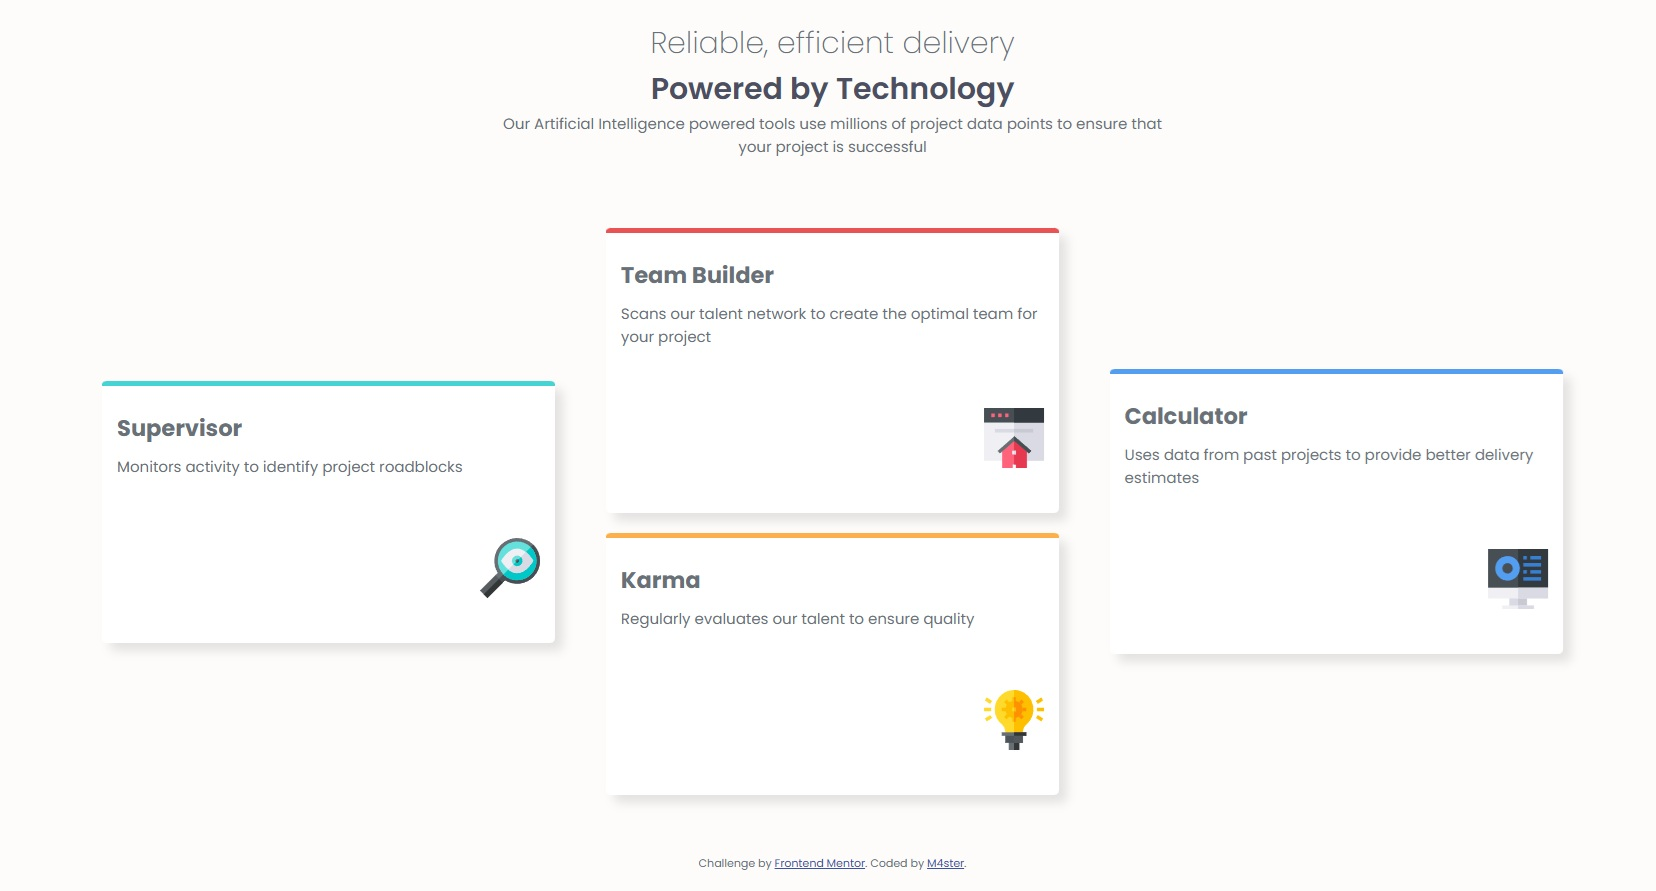
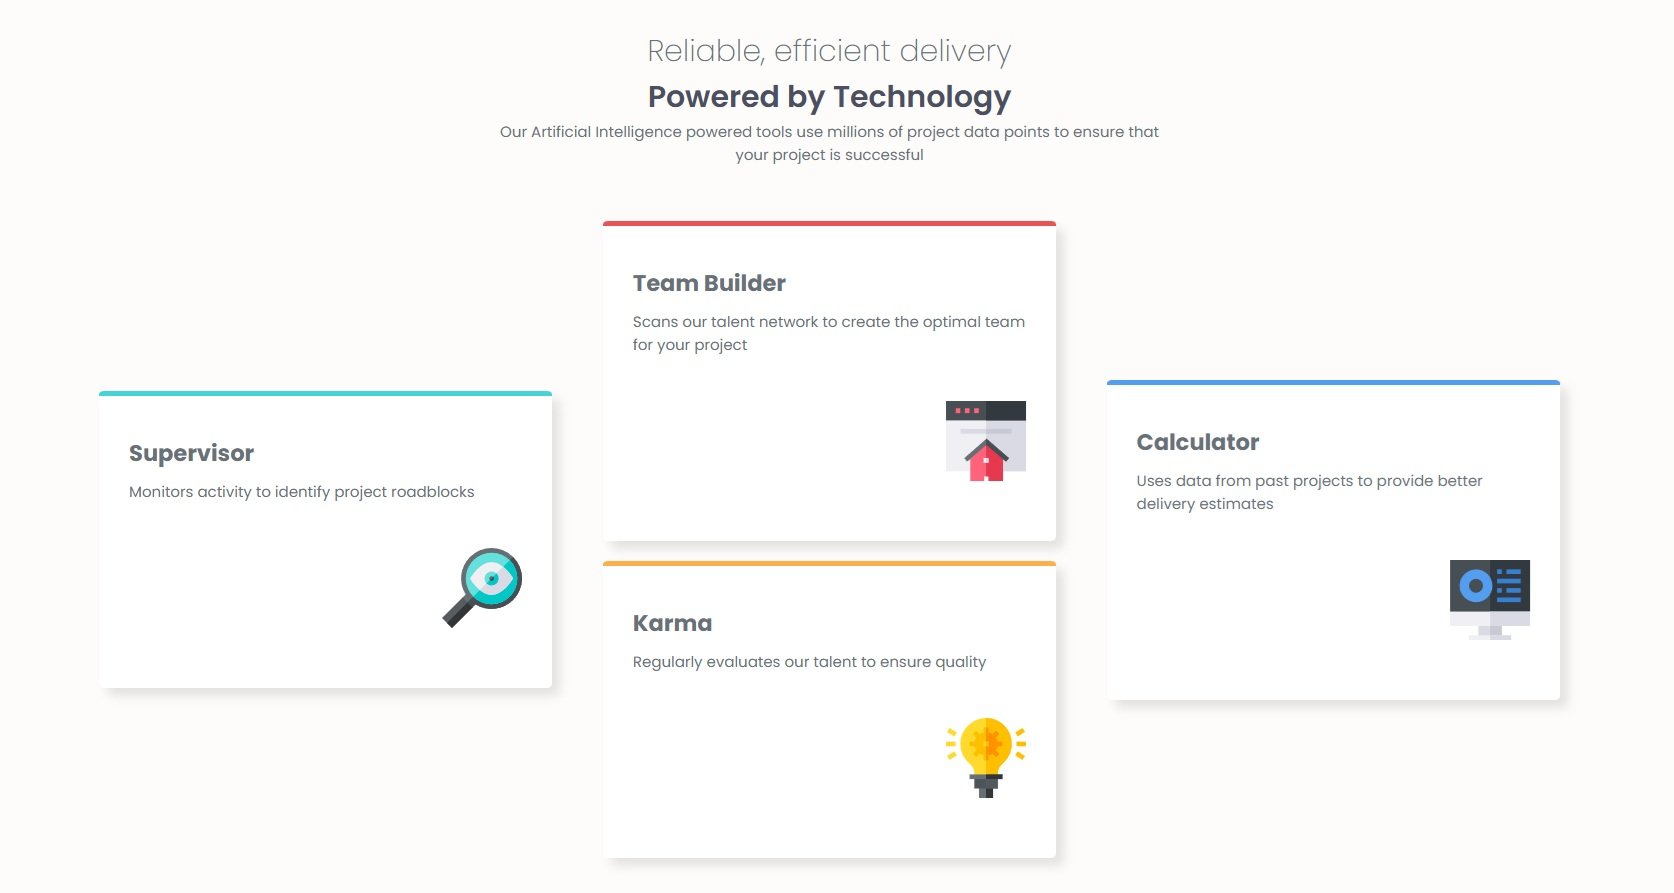
Diseño mejorado

diff --git a/styles.css b/styles.css
@@ -54,7 +54,7 @@ main {
   flex-direction: column;
   width: 90%;
   background-color: white;
-  padding: 15px;
+  padding: 30px;
   margin: 10px;
   border-radius: 5px;
   /* border-top: 5px hsl(180, 62%, 55%); */
@@ -82,12 +82,12 @@ h2 {
 }
 
 p {
-  margin: 0 0 30px;
+  margin: 0 0 15px;
 }
 img {
     flex: 1;
-  width: 60px;
-  height: 60px;
+  width: 80px;
+  height: 80px;
   align-self: flex-end;
   margin: 30px 0 30px 0;
 }
